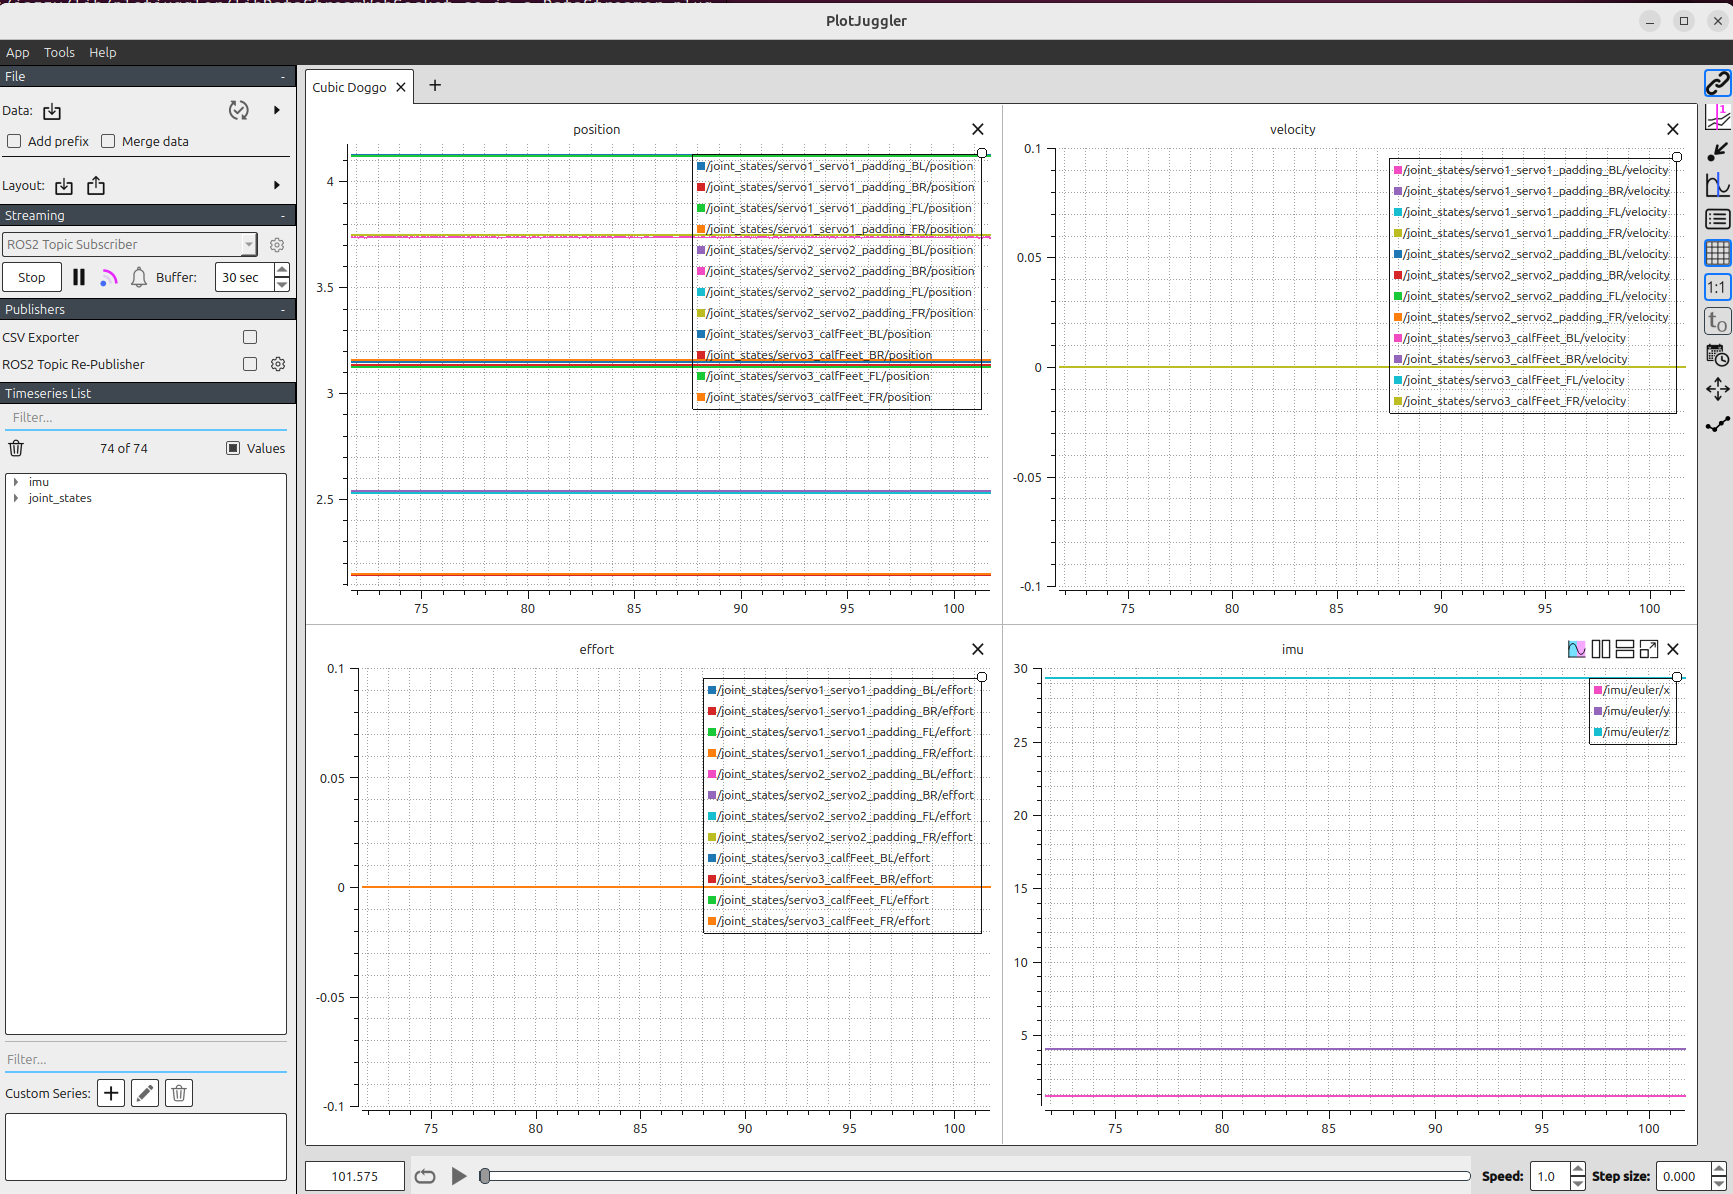
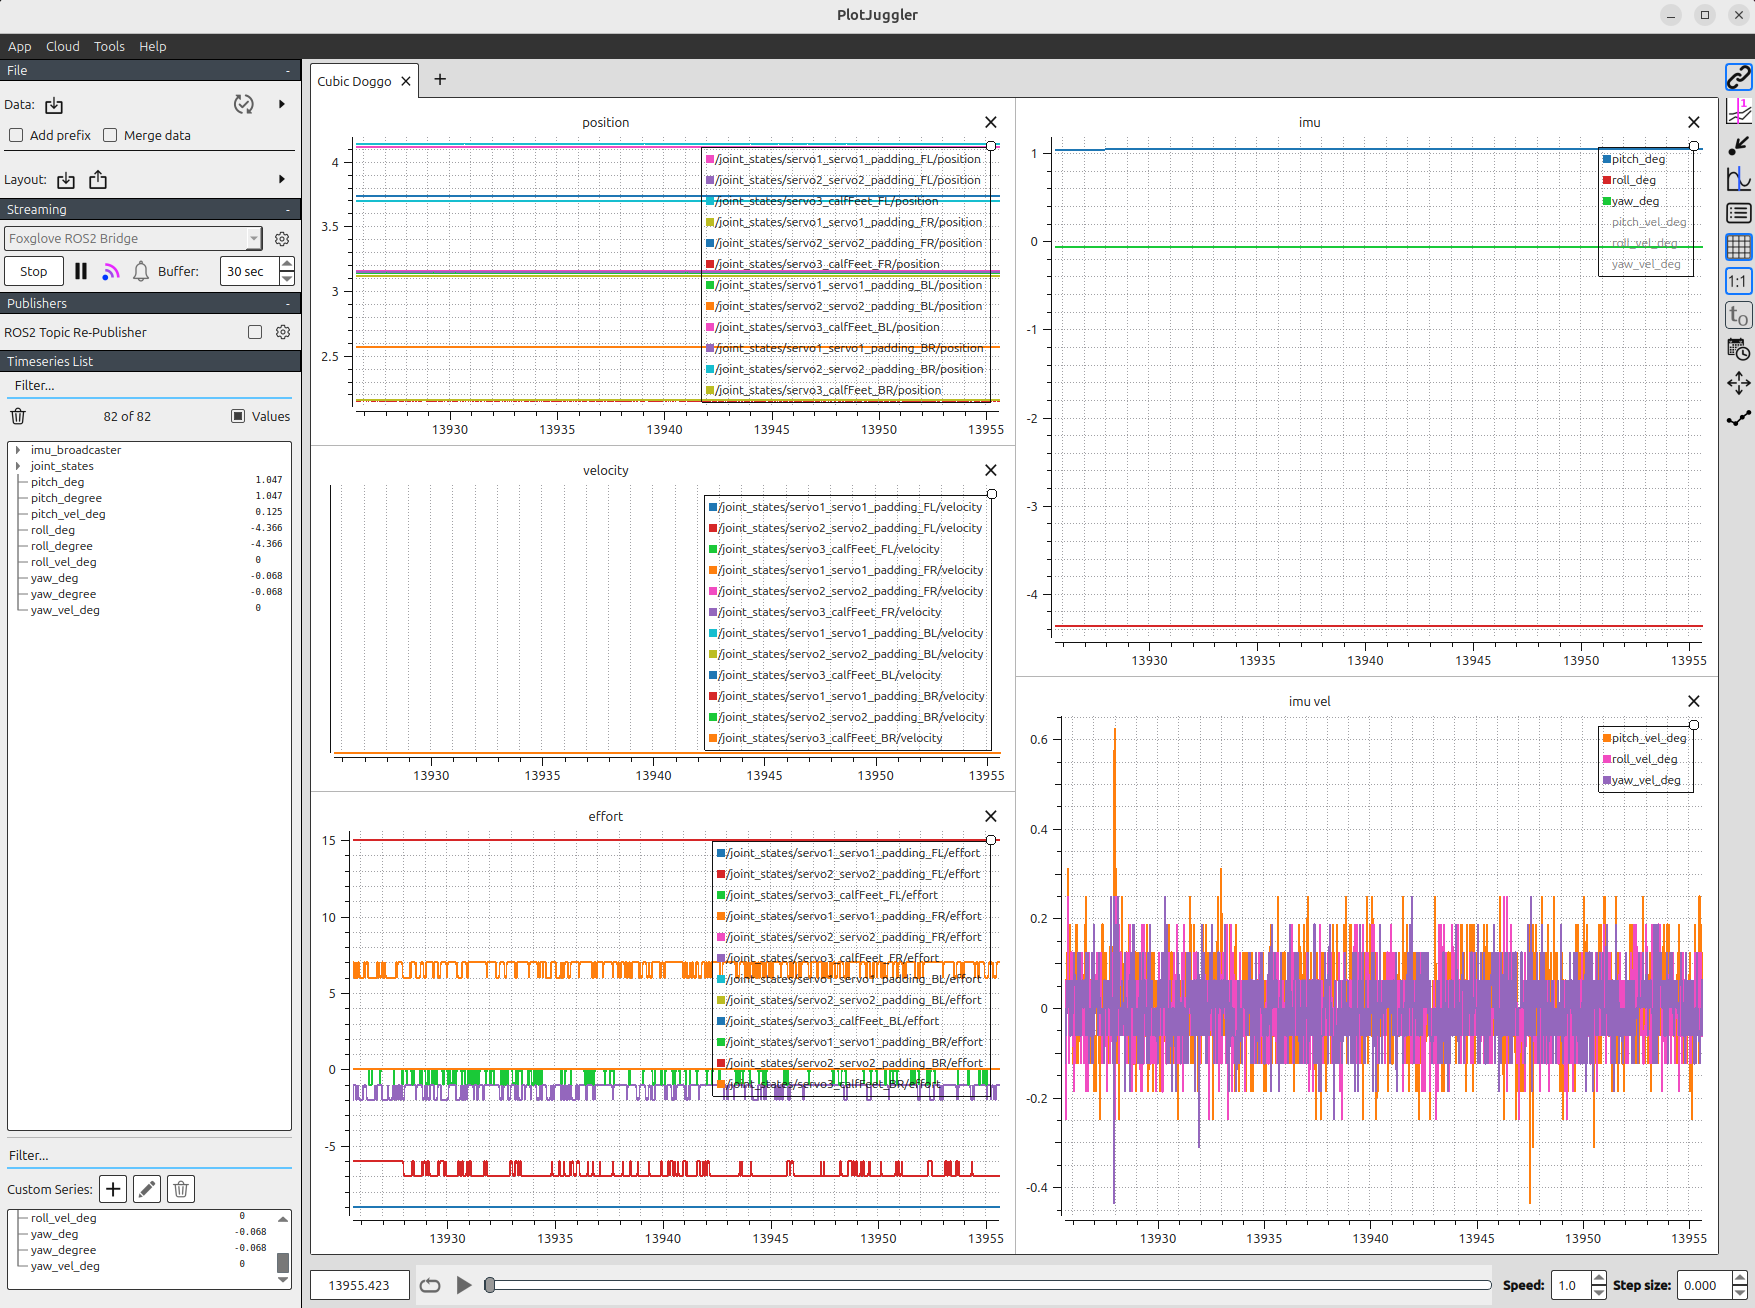
- update PID tunning for standing one last time. Something is broken with the walk gait however....

Changed region(s): [[0.0, 0.0, 1.0, 1.0]]

diff --git a/src/my_robot_commander/src/cubic_doggo_lifecycle_imuController.cpp b/src/my_robot_commander/src/cubic_doggo_lifecycle_imuController.cpp
@@ -173,7 +173,7 @@ public:
             matrixObj.getRPY(roll, pitch, yaw);
             double raw_pitch = pitch*(180.0/M_PI);
             double raw_roll  = roll *(180.0/M_PI);
-            double alpha = 1.0;                    // [0.0, 1.0], lower the smoother but with lags
+            double alpha = 0.8;                    // [0.0, 1.0], lower the smoother but with lags
             double current_pitch = alpha*raw_pitch + (1.0 - alpha)*current_pitch_.load();
             double current_roll  = alpha*raw_roll  + (1.0 - alpha)*current_roll_.load();
             current_pitch_.store(current_pitch, std::memory_order_relaxed);
@@ -468,16 +468,17 @@ private:
         response->message = is_walking_ ? "walking started" : "walking stopped";
     }
     void controlLoop_() {
-        //rclcpp::get_logger("").set_level(rclcpp::Logger::Level::Warn);        // for silencing output
+        rclcpp::get_logger("").set_level(rclcpp::Logger::Level::Warn);        // for silencing output
 
         // https://docs.ros.org/en/jazzy/p/control_toolbox/generated/structcontrol__toolbox_1_1AntiWindupStrategy.html
         control_toolbox::AntiWindupStrategy aw_strat;
         aw_strat.type = control_toolbox::AntiWindupStrategy::CONDITIONAL_INTEGRATION;
-        aw_strat.i_max =  0.03;
-        aw_strat.i_min = -0.03;
-        double kP = 0.0016, kI = 0.0, kD = 0.0; 
-        double corr_v_thres = 1.0, corr_d_thres = 0.3;              // threshold on pitch/roll and their vel 
-        double corr_z_limit_kD = 0.005, corr_z_limit = 0.025;       // limit on +/- z
+        aw_strat.i_max =  0.05;
+        aw_strat.i_min = -0.05;
+        //double kP = 0.0002, kI = 0.0008, kD = 0.00005;     // NOTE: PID 
+        double kP = 0.0016, kI = 0.0, kD = 0.0;     // NOTE: PID
+        double corr_v_thres = 3.0, corr_d_thres = 1.0;              // threshold on pitch/roll and their vel 
+        double corr_z_limit_kD = 0.01, corr_z_limit = 0.025;       // limit on +/- z
         double pitch_shift = 1.0, roll_shift = -2.0;
 
         auto loop_rate = rclcpp::WallRate(update_rate_);        // Hz, for consistent loop rate
@@ -508,11 +509,11 @@ private:
             }
             
             previous_time = current_time;
-            RCLCPP_INFO(get_logger(), "CubicDoggoLifecycleManager:controlLoop_(): "
+            RCLCPP_INFO(get_logger(), "CubicDoggoLifecycleManager:controlLoop_(): time = %d\n"
                                       "is_walking_ = %d, control_initialized_ = %d, idle_name_ = %s", 
-                                      is_walking_.load(), control_initialized_.load(), idle_name_.c_str());
+                                      current_time,is_walking_.load(),control_initialized_.load(),idle_name_.c_str());
             RCLCPP_INFO(get_logger(), "CubicDoggoLifecycleManager:controlLoop_(): "
-                                      "current pitch = %lf, roll = %lf", 
+                                      "raw pitch = %lf, raw roll = %lf", 
                                       current_pitch_.load(std::memory_order_relaxed), 
                                       current_roll_ .load(std::memory_order_relaxed));
 
@@ -546,8 +547,10 @@ private:
             current_roll_vel  *= std::clamp(std::fabs(current_roll_vel) /corr_v_thres, 0.0, 1.0);
             double pitch_corr = pitch_pid_.compute_command(current_pitch, delta_t);
             double roll_corr  = roll_pid_ .compute_command(current_roll,  delta_t);
-            pitch_corr -= std::clamp(kD*current_pitch_vel, -corr_z_limit_kD, corr_z_limit_kD);
-            roll_corr  -= std::clamp(kD*current_roll_vel, -corr_z_limit_kD, corr_z_limit_kD);
+            double pitch_corr_vel = std::clamp(kD*current_pitch_vel, -corr_z_limit_kD, corr_z_limit_kD);
+            double roll_corr_vel  = std::clamp(kD*current_roll_vel,  -corr_z_limit_kD, corr_z_limit_kD); 
+            pitch_corr += pitch_corr_vel;
+            roll_corr  += roll_corr_vel;
             pitch_corr *= std::clamp(std::fabs(current_pitch)/corr_d_thres, 0.0, 1.0);
             roll_corr  *= std::clamp(std::fabs(current_roll) /corr_d_thres, 0.0, 1.0);
             pitch_corr  = std::clamp(pitch_corr, -corr_z_limit, corr_z_limit);
@@ -556,12 +559,12 @@ private:
             imu_z_corr_[1] = -pitch_corr + roll_corr;
             imu_z_corr_[2] = +pitch_corr - roll_corr;
             imu_z_corr_[3] = -pitch_corr - roll_corr;
-            RCLCPP_INFO(get_logger(), "CubicDoggoLifecycleManager:controlLoop_(): current pitch = %lf, roll = %lf",
-                                      current_pitch, current_roll);
-            RCLCPP_INFO(get_logger(), "CubicDoggoLifecycleManager:controlLoop_(): "
-                                      "pitch_corr = %lf (kD corr: %lf), roll_corr = %lf (kD corr: %lf)",
-                                      pitch_corr, kD*current_pitch_vel_.load(),roll_corr,kD*current_roll_vel_.load());
-            RCLCPP_INFO(get_logger(), "CubicDoggoLifecycleManager:controlLoop_(): imu_z_corr = [%lf, %lf, %lf, %lf]",
+            RCLCPP_INFO(get_logger(), "CubicDoggoLifecycleManager:controlLoop_():\n"
+                                      "shifted pitch = %lf (vel = %lf), shifted roll = %lf (vel = %lf)\n"
+                                      "full pitch corr = %lf (kD corr = %lf), full roll corr = %lf (kD corr = %lf)\n"
+                                      "imu_z_corr = [%lf, %lf, %lf, %lf]",
+                                      current_pitch, current_pitch_vel, current_roll, current_roll_vel,
+                                      pitch_corr, pitch_corr_vel, roll_corr, roll_corr_vel,
                                       imu_z_corr_[0], imu_z_corr_[1], imu_z_corr_[2], imu_z_corr_[3]);
             
             std::vector<moveit::core::RobotStatePtr> gait_waypoints;
@@ -604,8 +607,9 @@ private:
                                                "negative cycle duration, waypoint_N*waypoint_dt < IK_befferTime");
                 }
                 std::this_thread::sleep_for(std::chrono::milliseconds(static_cast<int>(cycle_duration_ms)));
+            } else {
+                loop_rate.sleep();
             }
-            loop_rate.sleep();
         }
     }
     //////////////////////////////////////////////////////////////////////////////////////////////////////////////////